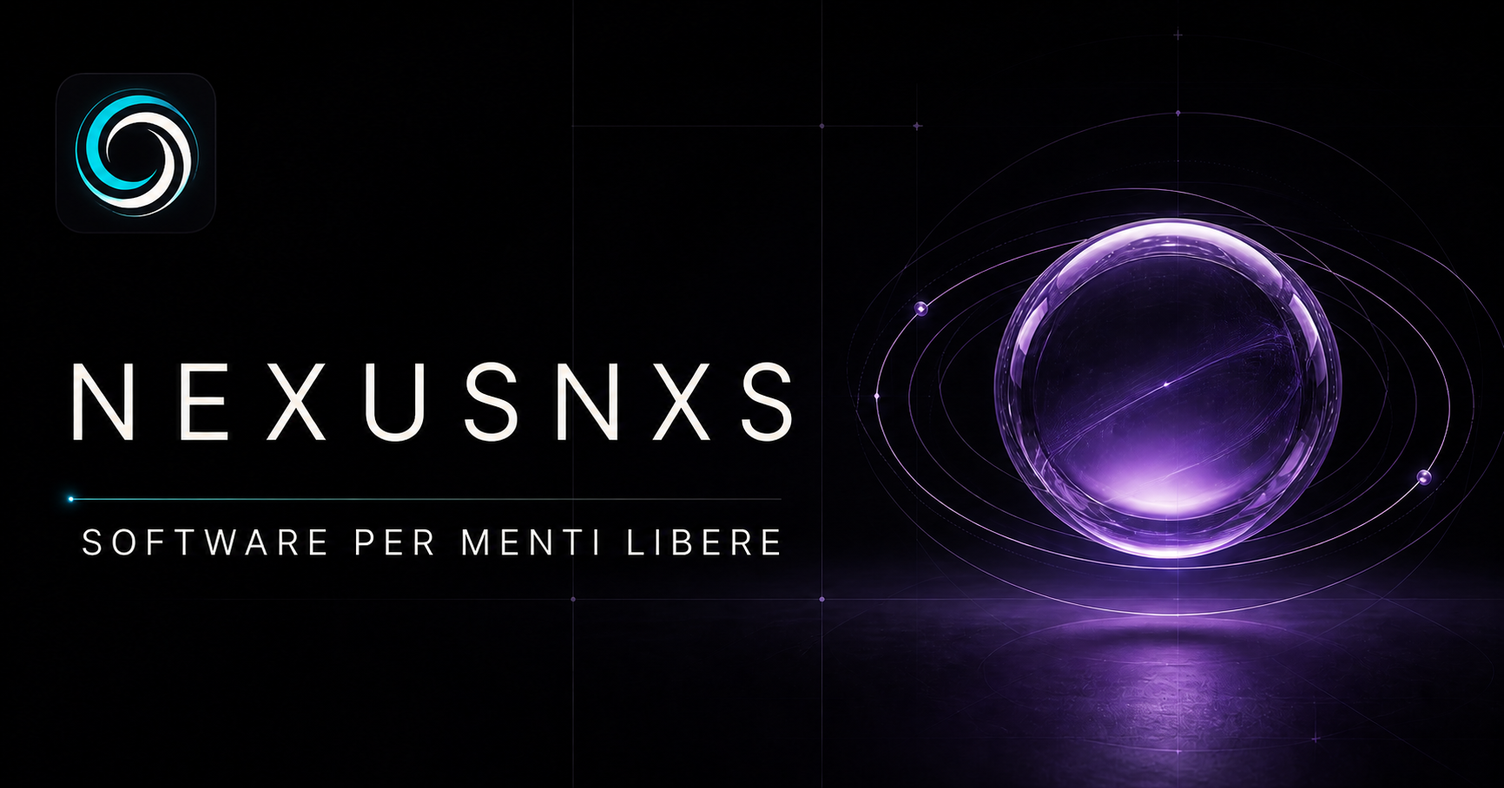
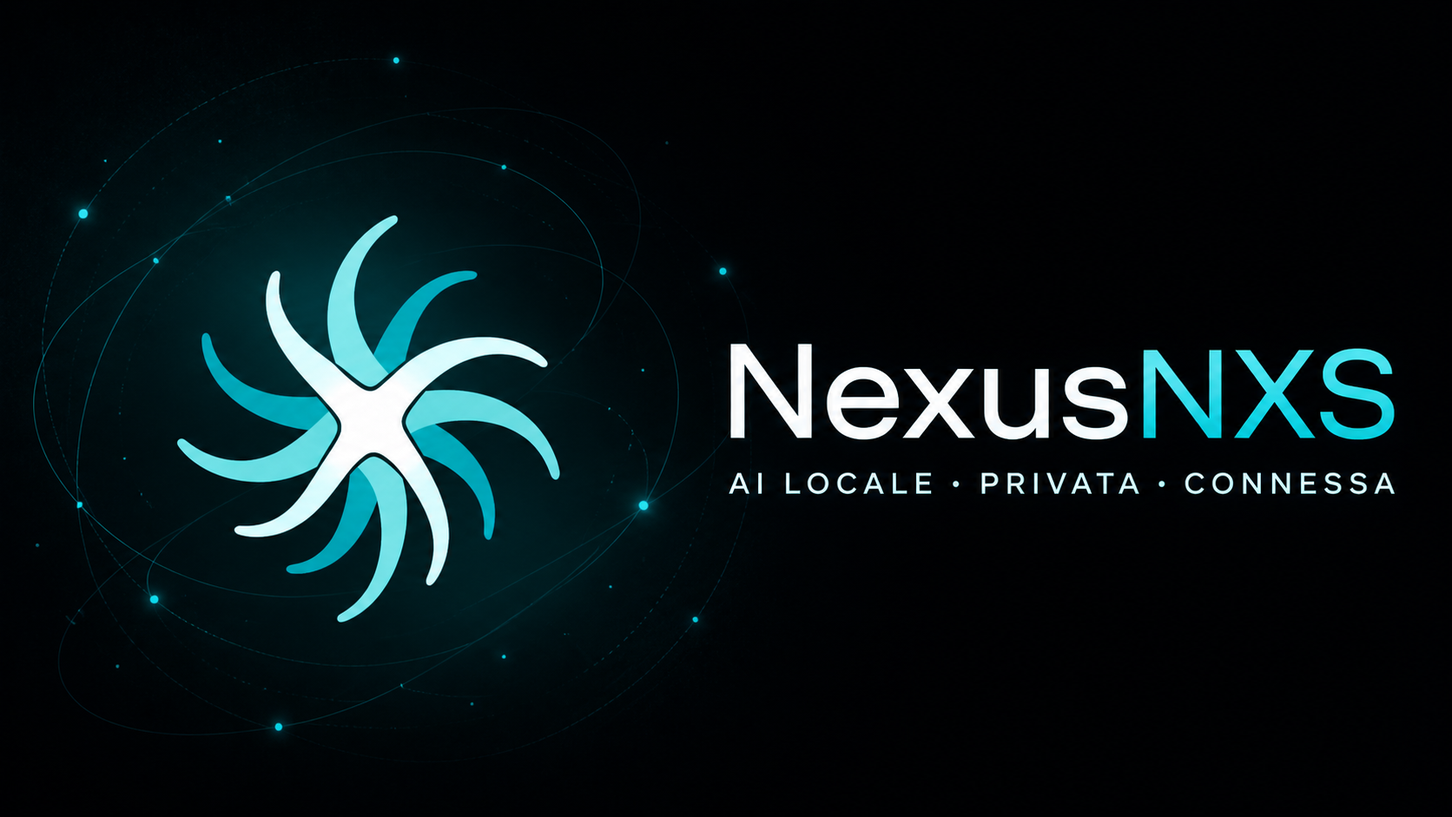
Align site with NexusNXS app design system

diff --git a/app/globals.css b/app/globals.css
@@ -69,8 +69,7 @@ body{min-width:0}.menu-open{overflow:hidden}main{overflow:clip}.site-header{posi
 
 /* NexusNXS professional system */
 @font-face{font-family:"Nexus Inter";src:url("/fonts/inter-latin.woff2") format("woff2");font-style:normal;font-weight:100 900;font-display:swap}
-@font-face{font-family:"Nexus Editorial";src:url("/fonts/cormorant-garamond-latin.woff2") format("woff2");font-style:normal;font-weight:400 700;font-display:swap}
-:root{--font-inter:"Nexus Inter",Inter,system-ui,sans-serif;--font-cormorant:"Nexus Editorial",Georgia,serif;--content-max:1240px;--page-pad:clamp(22px,5vw,72px);--surface:#0d0d13;--surface-2:#12121a;--soft-line:rgba(255,255,255,.105);--text:#f5f3f8;--subtle:#b8b4c1;--brand:#8c78ff;--brand-2:#68d9dd;--success:#71e7ad;--warning:#f1c979}
+:root{--font-inter:"Nexus Inter",Inter,system-ui,sans-serif;--font-cormorant:var(--font-inter);--content-max:1240px;--page-pad:clamp(22px,5vw,72px);--surface:#0d0d13;--surface-2:#12121a;--soft-line:rgba(255,255,255,.105);--text:#f5f3f8;--subtle:#b8b4c1;--brand:#8c78ff;--brand-2:#68d9dd;--success:#71e7ad;--warning:#f1c979}
 html{scroll-padding-top:88px}
 body{font-family:var(--font-inter),Inter,system-ui,-apple-system,"Segoe UI",sans-serif;background:#07070b;color:var(--text);text-rendering:optimizeLegibility;-webkit-font-smoothing:antialiased}
 h1,h2,h3,p{overflow-wrap:break-word}
@@ -113,4 +112,33 @@ h1 em,h2 em,.manifesto-text{font-family:var(--font-cormorant),Georgia,serif}
 @media(max-width:820px){.security-summary{grid-template-columns:1fr;margin-top:20px}.security-summary>div{border-right:0;border-bottom:1px solid var(--soft-line)}.security-policies,.release-notes,.uptime-panel{grid-template-columns:1fr;gap:35px}.service-list>div{grid-template-columns:30px 1fr auto;gap:8px 14px}.legal-layout{grid-template-columns:1fr;padding-top:60px}.legal-layout aside{position:static;grid-template-columns:1fr 1fr}.release-list article{padding:28px 22px}}
 @media(max-width:560px){.release-list article{grid-template-columns:54px 1fr;gap:18px}.release-list dl{grid-template-columns:1fr}.release-list button,.release-list small,.release-requirements{grid-column:1/-1}.release-title{grid-column:2}.release-icon{width:52px;height:52px}.release-policy{font-size:12px}.verify-guide{border-radius:0}.release-notes,.uptime-panel{width:calc(100% - 2 * var(--page-pad));padding:32px 24px}.security-policies{grid-template-columns:1fr}.security-summary{width:calc(100% - 2 * var(--page-pad))}.service-list>div{grid-template-columns:28px 1fr}.service-list>div>b{grid-column:2}.legal-hero{padding-top:140px}.legal-layout aside{grid-template-columns:1fr}.legal-layout article{gap:55px}}
 @media(prefers-reduced-motion:reduce){html{scroll-behavior:auto}*,*::before,*::after{animation-duration:.01ms!important;animation-iteration-count:1!important;transition-duration:.01ms!important}.reveal{opacity:1;transform:none}.aurora i:nth-child(3){animation:none}}
+
+/* NexusNXS app-native theme — source: desktop and Android design systems */
+:root{--ink:#020405;--paper:#020405;--muted:rgba(176,210,214,.42);--line:rgba(125,224,228,.11);--violet:#52eef0;--surface:#091113;--surface-2:#0d181a;--soft-line:rgba(125,224,228,.11);--text:#e9fdff;--subtle:rgba(201,238,241,.64);--brand:#52eef0;--brand-2:#27cfd2;--success:#58e8bd;--warning:#bd9f4f;--error:#c95d57}
+body{background:var(--ink);color:var(--text)}
+h1 em,h2 em,.manifesto-text,.section-heading h2,.security h2,footer h2,.app-card h3,.mini-main p,.architecture-band h2,.one-nexus h2,.data-flow h2,.feature-grid h3,.control-grid h2,.release-list h2,.verify-guide h2,.report-band h2,.status-note h2,.release-notes h2,.uptime-panel h2,.legal-hero h1{font-family:var(--font-inter),Inter,system-ui,sans-serif;font-style:normal}
+h1 em,h2 em{color:var(--cyan,#52eef0)}
+::selection{background:#52eef0;color:#020405}
+:where(a,button):focus-visible{outline-color:#72f4ff}
+.site-header{background:rgba(2,4,5,.82);border-color:rgba(125,224,228,.09)}
+.brand-icon{box-shadow:0 0 0 1px rgba(82,238,240,.1),0 8px 28px rgba(39,207,210,.12)}
+.chrome-nav a{color:rgba(201,238,241,.62)}.chrome-nav a:hover,.chrome-nav a[aria-current="page"]{color:#e9fdff}.chrome-nav a[aria-current="page"]:not(.chrome-download)::after{background:linear-gradient(90deg,#52eef0,transparent)}
+.chrome-download{border-color:rgba(82,238,240,.24);background:rgba(82,238,240,.045)}.network-pill{border-color:rgba(82,238,240,.13);background:rgba(6,18,20,.76);color:rgba(201,238,241,.76)}.network-pill i,.status i{background:#58e8bd;box-shadow:0 0 .7rem rgba(88,232,189,.32)}
+.primary-button{border-color:#52eef0;background:#52eef0;color:#020405;box-shadow:0 0 0 1px rgba(82,238,240,.12),0 14px 44px rgba(39,207,210,.13);font-weight:700}.primary-button:hover{background:#e9fdff;color:#020405}.text-link{border-color:rgba(125,224,228,.22)}
+.hero{background:#020405}.aurora{background:radial-gradient(ellipse at 72% 48%,rgba(20,90,94,.14),transparent 34%),radial-gradient(circle at 20% 20%,rgba(39,207,210,.025),transparent 24%),#020405}.aurora:after{opacity:.16;background-image:linear-gradient(rgba(125,224,228,.065) 1px,transparent 1px),linear-gradient(90deg,rgba(125,224,228,.065) 1px,transparent 1px);mask-image:linear-gradient(90deg,transparent,#000 62%,transparent)}.aurora i{border-color:rgba(82,238,240,.14);box-shadow:inset 0 0 60px rgba(39,207,210,.035),0 0 80px rgba(39,207,210,.025)}.aurora i:nth-child(3){background:radial-gradient(circle at 42% 38%,#e9fdff 0 2%,#72f4ff 4%,#27cfd2 18%,#0a3b3e 42%,#020405 72%);box-shadow:0 0 35px rgba(82,238,240,.32),0 0 110px rgba(39,207,210,.13)}
+.eyebrow,.section-label{color:rgba(168,200,202,.7)}.hero-copy,.section-heading>p,.security-copy>p:not(.section-label),.one-nexus-copy p:not(.section-label),.product-copy>p,.trust-hero>div>p,.download-hero>p{color:rgba(201,238,241,.64)}.trust-line{color:rgba(168,200,202,.46)}.trust-line svg{color:#52eef0}
+.manifesto{background:radial-gradient(circle at 78% 30%,rgba(39,207,210,.07),transparent 36%),#060a0c;color:#e9fdff;border-block:1px solid rgba(125,224,228,.08)}.manifesto .section-label{color:rgba(168,200,202,.55)}.manifesto-text strong{color:#52eef0}
+.apps-section{background:#020405}.app-grid{background:rgba(125,224,228,.09);border-color:rgba(125,224,228,.09)}.app-card{background:linear-gradient(145deg,rgba(9,17,19,.98),rgba(3,9,10,.98))}.app-card:hover{background:linear-gradient(145deg,#0d181a,#061012)}.app-orb span,.cyan .app-orb span,.teal .app-orb span{position:relative;border-radius:50%;background:radial-gradient(circle at 42% 38%,#e9fdff 0 2%,#72f4ff 4%,#27cfd2 18%,#0a3b3e 42%,#020405 72%);box-shadow:0 0 25px rgba(82,238,240,.34),0 0 0 34px rgba(82,238,240,.025),0 0 0 68px rgba(82,238,240,.012)}.teal .app-orb span{background:radial-gradient(circle at 42% 38%,#e9fdff 0 2%,#58e8bd 5%,#27cfd2 22%,#093537 46%,#020405 74%)}.app-orb span svg{color:#020405;filter:drop-shadow(0 0 8px rgba(233,253,255,.65))}.card-top,.platform{color:rgba(176,210,214,.46)!important}.status{color:rgba(168,200,202,.62)}.app-card>a{border-color:rgba(125,224,228,.12);color:rgba(201,238,241,.82)}
+.presence-system{width:min(calc(100% - 2 * var(--page-pad)),var(--content-max));margin:0 auto 110px;padding:clamp(44px,7vw,90px);display:grid;grid-template-columns:.85fr 1.15fr;gap:clamp(42px,7vw,100px);align-items:center;border:1px solid rgba(125,224,228,.1);border-radius:1.2rem;background:radial-gradient(ellipse at 80% 50%,rgba(20,90,94,.09),transparent 48%),#060a0c}.presence-copy h2{font-size:clamp(46px,5.8vw,78px);line-height:.94;letter-spacing:-.05em;margin:22px 0}.presence-copy>p:last-child{max-width:500px;color:rgba(201,238,241,.6);line-height:1.75}.presence-grid{display:grid;gap:10px}.presence-grid article{display:grid;grid-template-columns:46px 1fr auto;gap:14px;align-items:center;min-height:76px;padding:12px 16px;border:1px solid rgba(125,224,228,.08);border-radius:.75rem;background:rgba(9,17,19,.72)}.presence-grid article>span{width:42px;height:42px;display:grid;place-items:center;border-radius:50%;background:rgba(82,238,240,.055);color:#52eef0}.presence-grid article div{display:grid;gap:4px}.presence-grid strong{font-size:14px}.presence-grid small{color:rgba(176,210,214,.46)}.presence-grid article>i{width:7px;height:7px;border-radius:50%;background:#52eef0;box-shadow:0 0 .75rem rgba(82,238,240,.4)}.presence-grid article[data-state="listening"]>span,.presence-grid article[data-state="listening"]>i{color:#58e8bd;background-color:#58e8bd}.presence-grid article[data-state="thinking"]>span{color:#7fbdff}.presence-grid article[data-state="thinking"]>i{background:#7fbdff;box-shadow:0 0 .75rem rgba(127,189,255,.4)}.presence-grid article[data-state="responding"]>span{color:#b2efff}.presence-grid article[data-state="responding"]>i{background:#b2efff}.presence-grid article[data-state="executing"]>span{color:#bd9f4f}.presence-grid article[data-state="executing"]>i{background:#bd9f4f;box-shadow:0 0 .75rem rgba(189,159,79,.38)}.presence-grid article[data-state="listening"]>span{background:rgba(88,232,189,.055)}
+.one-nexus{background:radial-gradient(ellipse at 70% 48%,rgba(20,90,94,.11),transparent 48%),#060a0c;border-color:rgba(125,224,228,.1);border-radius:1.2rem}.orbit-line{border-color:rgba(82,238,240,.12)}.orbit-line.two{border-color:rgba(88,232,189,.12)}
+.product-mockup .mockup-glow{background:rgba(39,207,210,.12)}.device-frame{border-color:rgba(125,224,228,.16);background:linear-gradient(145deg,#0d181a,#020405);box-shadow:0 2rem 7rem rgba(0,0,0,.58),0 0 0 8px rgba(82,238,240,.018)}.device-bar{color:rgba(176,210,214,.4)}.device-bar i{background:rgba(125,224,228,.24)}.device-content{background:radial-gradient(ellipse at 65% 38%,rgba(20,90,94,.09),transparent 46%),#020405}.mini-sidebar{border-color:rgba(125,224,228,.09)}.mini-sidebar b{background:#52eef0;color:#020405}.mini-sidebar i{border-color:rgba(125,224,228,.2)}.mini-main{position:relative;padding:18px}.mini-main small{margin-top:13px;color:rgba(82,238,240,.5);font:6px ui-monospace,monospace;letter-spacing:.14em}.mini-main p{font-size:20px;font-weight:600;margin:10px 0 4px}.mini-main>span{color:rgba(201,238,241,.46)}.mini-orb{position:relative;width:82px;height:82px;border:1px solid rgba(82,238,240,.3);border-radius:50%;background:radial-gradient(circle,#52eef0 0 3%,#0d4144 5% 12%,transparent 13%);box-shadow:0 0 2rem rgba(82,238,240,.13)}.mini-orb>i{position:absolute;inset:13%;border:1px solid rgba(82,238,240,.6);border-radius:50%;clip-path:polygon(0 0,65% 0,65% 100%,0 100%)}.mini-orb>i:nth-child(2){inset:26%;transform:rotate(120deg);opacity:.7}.mini-orb>i:nth-child(3){inset:-18%;border-color:rgba(82,238,240,.1);clip-path:none}.mini-orb>span{position:absolute;inset:45%;border-radius:50%;background:#e9fdff;box-shadow:0 0 .55rem #52eef0}.mini-input{width:min(82%,260px);height:34px;display:flex;align-items:center;justify-content:space-between;padding:0 8px 0 12px;border-color:rgba(125,224,228,.16);border-radius:.65rem;background:rgba(9,17,19,.72)}.mini-input span{font-size:7px;color:rgba(176,210,214,.38)}.mini-input i{width:18px;height:18px;border-radius:50%;background:#52eef0}.android .mini-main{padding-inline:12px}.android .mini-main p{font-size:16px}.android .mini-input{width:92%}
+.security{background:linear-gradient(135deg,#0d181a,#061012 60%,#020405);border:1px solid rgba(125,224,228,.1);border-radius:1.2rem}.security-panel{background:#020405;border:1px solid rgba(125,224,228,.09)}.security-panel>p span{color:#58e8bd}.shield{background:radial-gradient(circle at 50% 32%,rgba(82,238,240,.34),rgba(9,44,46,.96) 55%,#020405);filter:drop-shadow(0 0 35px rgba(82,238,240,.18))}.security-copy .light{background:#52eef0;color:#020405;border-color:#52eef0}.security-panel dl div{border-color:rgba(125,224,228,.1)}.security-panel dt{color:rgba(176,210,214,.46)}.security-panel dd{color:rgba(233,253,255,.76)}
+.product-hero,.trust-hero,.download-hero,.status-hero,.legal-hero{background:radial-gradient(ellipse at 80% 30%,rgba(20,90,94,.12),transparent 34%),#020405}.platform-chip{color:rgba(82,238,240,.55)}.product-facts>div{border-color:rgba(125,224,228,.1);background:#060a0c}.feature-grid article,.control-grid article{border-color:rgba(125,224,228,.09);background:#060a0c}.feature-grid svg,.control-grid svg{color:#52eef0}.feature-grid p,.control-grid p{color:rgba(201,238,241,.58)}.architecture-band{background:radial-gradient(ellipse at 20% 30%,rgba(39,207,210,.12),transparent 42%),#091113;border:1px solid rgba(125,224,228,.11);border-radius:1.2rem}.architecture-list p{border-color:rgba(125,224,228,.12)}.architecture-list svg{color:#52eef0}
+.trust-seal{background:radial-gradient(circle at 50% 30%,rgba(82,238,240,.38),#0d4a4d 45%,#020405 78%);filter:drop-shadow(0 0 44px rgba(39,207,210,.2))}.security-summary,.security-policies article{background:#091113;border-color:rgba(125,224,228,.1)}.data-flow{background:#060a0c;color:#e9fdff;border-block:1px solid rgba(125,224,228,.08)}.data-flow .section-label{color:rgba(168,200,202,.55)}.flow-line i{background:linear-gradient(90deg,#27cfd2,#52eef0)}.data-flow li{border-color:rgba(125,224,228,.1)}.data-flow li svg{color:#52eef0}.security-policies article>svg,.report-band>svg,.status-note>svg,.release-notes>div>svg,.uptime-panel>div:first-child>svg{color:#52eef0}.report-band,.status-note{border-color:rgba(125,224,228,.1);background:#060a0c}
+.release-policy{border-color:rgba(189,159,79,.25);background:rgba(189,159,79,.05)}.release-list article{border-color:rgba(125,224,228,.1);background:linear-gradient(145deg,#091113,#03090a)}.release-icon{border-color:rgba(82,238,240,.18);color:#52eef0;background:rgba(82,238,240,.025)}.release-list dl>div{border-color:rgba(125,224,228,.08)}.verify-guide{background:#091113;color:#e9fdff;border:1px solid rgba(125,224,228,.11)}.verify-guide p{color:rgba(201,238,241,.6)}.verify-guide li{border-color:rgba(125,224,228,.1)}.verify-guide li span{color:#52eef0}.hash-preview{background:#060a0c;color:rgba(201,238,241,.62)}.release-notes,.uptime-panel{background:radial-gradient(ellipse at 18% 25%,rgba(39,207,210,.08),transparent 44%),#060a0c;border-color:rgba(125,224,228,.1)}
+.status-banner{border-color:rgba(125,224,228,.12);background:#091113}.service-list>div{border-color:rgba(125,224,228,.1)}.service-list svg{color:#52eef0}.uptime-empty{border-color:rgba(125,224,228,.18)}
+.legal-layout aside a{border-color:rgba(125,224,228,.09);color:rgba(176,210,214,.55)}.legal-layout article section>svg{color:#52eef0}.legal-layout p{color:rgba(201,238,241,.62)}.legal-layout p a{color:#9ff8fa;border-color:rgba(82,238,240,.3)}
+.premium-footer{background:radial-gradient(ellipse at 15% 0,rgba(20,90,94,.09),transparent 36%),#020405;border-color:rgba(125,224,228,.09)}.footer-links a{color:rgba(201,238,241,.62)}.footer-bottom{color:rgba(176,210,214,.4);border-color:rgba(125,224,228,.09)}
+@media(max-width:820px){.chrome-nav{background:rgba(2,4,5,.98)}.chrome-nav a{border-color:rgba(125,224,228,.1)}.chrome-download{border-color:rgba(82,238,240,.28)!important;background:rgba(82,238,240,.08)}.presence-system{grid-template-columns:1fr}.presence-grid{grid-template-columns:1fr 1fr}}
+@media(max-width:560px){.presence-system{width:100%;border-inline:0;border-radius:0;padding:64px var(--page-pad)}.presence-grid{grid-template-columns:1fr}.security,.one-nexus{border-radius:0}.architecture-band{border-radius:.9rem}}
 @media(prefers-reduced-motion:reduce){.chrome-nav{transition:none}.primary-button:hover{transform:none}}

diff --git a/app/page.tsx b/app/page.tsx
@@ -1,13 +1,20 @@
 "use client";
 
 import { useEffect } from "react";
-import { ArrowUpRight, Blocks, Fingerprint, KeyRound, LockKeyhole, Orbit, ShieldCheck, Sparkles, Workflow } from "lucide-react";
+import { ArrowUpRight, Blocks, BrainCircuit, Fingerprint, KeyRound, LockKeyhole, MessageCircle, Mic2, Orbit, ShieldCheck, Sparkles, Workflow, Zap } from "lucide-react";
 import { ProductMockup, SiteFooter, SiteHeader } from "./components/SiteChrome";
 import { StructuredData } from "./components/StructuredData";
 
 const apps = [
-  { index: "01", name: "NexusNXS per PC", platform: "Windows · AI locale", description: "Un ambiente intelligente e privato che porta modelli, strumenti e automazioni dentro il tuo computer.", accent: "violet", href: "/desktop", Icon: Workflow },
-  { index: "02", name: "NexusNXS per Android", platform: "Android · Continuità", description: "La tua esperienza NexusNXS sempre con te, con conversazioni sincronizzate e controllo trasparente.", accent: "cyan", href: "/android", Icon: KeyRound },
+  { index: "01", name: "NexusNXS per PC", platform: "Windows · AI locale", description: "Il centro intelligente della tua istanza: modelli locali, voce, progetti e azioni approvate sul computer.", accent: "cyan", href: "/desktop", Icon: Workflow },
+  { index: "02", name: "NexusNXS per Android", platform: "Android · Continuità cifrata", description: "La stessa presenza NexusNXS in movimento, con sessioni protette, pairing revocabile e continuità reale.", accent: "teal", href: "/android", Icon: KeyRound },
+];
+
+const presenceStates = [
+  { Icon: Mic2, label: "Ascolto", detail: "Input vocale attivo", state: "listening" },
+  { Icon: BrainCircuit, label: "Pensiero", detail: "Elaborazione visibile", state: "thinking" },
+  { Icon: MessageCircle, label: "Risposta", detail: "Output leggibile", state: "responding" },
+  { Icon: Zap, label: "Azione", detail: "Consenso richiesto", state: "executing" },
 ];
 
 export default function Home() {
@@ -22,24 +29,28 @@ export default function Home() {
       <SiteHeader />
       <section className="hero" id="top">
         <div className="aurora" aria-hidden="true"><i /><i /><i /></div>
-        <p className="eyebrow"><Sparkles size={13} strokeWidth={1.5} /> Software indipendente. Idee senza confini.</p>
-        <h1>Strumenti digitali<br />per menti <em>libere.</em></h1>
-        <p className="hero-copy">App Android e desktop progettate per essere potenti, bellissime e rispettose. La tecnologia torna dalla tua parte.</p>
-        <div className="hero-actions"><a className="primary-button" href="#apps">Scopri le app <ArrowUpRight size={15} /></a><a className="text-link" href="/security">Esplora il Trust Center <span>→</span></a></div>
-        <div className="trust-line"><span><Fingerprint size={13} /> PRIVACY BY DESIGN</span><span><ShieldCheck size={13} /> FIRMA VERIFICABILE</span><span><Blocks size={13} /> NESSUN TRACKING INVASIVO</span></div>
+        <p className="eyebrow"><Sparkles size={13} strokeWidth={1.5} /> NEXUSNXS · AI LOCALE, PRIVATA, CONNESSA</p>
+        <h1>La tua intelligenza.<br /><em>Un solo NexusNXS.</em></h1>
+        <p className="hero-copy">Un’unica istanza intelligente tra PC e Android. Modelli locali, voce, progetti e continuità cifrata, con i tuoi dati sotto il tuo controllo.</p>
+        <div className="hero-actions"><a className="primary-button" href="#apps">Esplora NexusNXS <ArrowUpRight size={15} /></a><a className="text-link" href="/security">Apri il Trust Center <span>→</span></a></div>
+        <div className="trust-line"><span><Fingerprint size={13} /> AI LOCALE</span><span><ShieldCheck size={13} /> ACCESSI REVOCABILI</span><span><Blocks size={13} /> CONTINUITÀ CIFRATA</span></div>
         <div className="scroll-cue" aria-hidden="true">SCORRI <i /></div>
       </section>
-      <section className="manifesto reveal" id="vision"><p className="section-label">/ 01 — La visione</p><p className="manifesto-text">Non costruiamo software che reclama la tua attenzione. Creiamo <strong>strumenti silenziosi</strong> che amplificano ciò che sai fare.</p></section>
+      <section className="manifesto reveal" id="vision"><p className="section-label">/ 01 — LA PRESENZA</p><p className="manifesto-text">NexusNXS non è un insieme di app separate. È <strong>una sola intelligenza privata</strong> che continua tra i tuoi dispositivi.</p></section>
       <section className="apps-section" id="apps">
         <div className="section-heading reveal"><div><p className="section-label">/ 02 — Le applicazioni</p><h2>Un ecosistema.<br />Il tuo ritmo.</h2></div><p>Ogni prodotto nasce per risolvere bene un problema reale. Insieme, diventano un ambiente senza attriti.</p></div>
         <div className="app-grid">{apps.map((app) => <article className={`app-card reveal ${app.accent}`} key={app.name}><div className="card-top"><span>{app.index}</span><span className="status"><i /> IN SVILUPPO</span></div><div className="app-orb" aria-hidden="true"><span><app.Icon size={46} strokeWidth={1.15} /></span></div><p className="platform">{app.platform}</p><h3>{app.name}</h3><p>{app.description}</p><a href={app.href} aria-label={`Scopri di più su ${app.name}`}>SCOPRI DI PIÙ <ArrowUpRight size={14} /></a></article>)}</div>
       </section>
+      <section className="presence-system reveal" aria-labelledby="presence-title">
+        <div className="presence-copy"><p className="section-label">/ 03 — STATI COMPRENSIBILI</p><h2 id="presence-title">Sai sempre<br /><em>cosa sta facendo.</em></h2><p>Colori e movimento hanno un significato operativo, lo stesso sulle app e sul sito. Nessun indicatore puramente decorativo.</p></div>
+        <div className="presence-grid">{presenceStates.map(({Icon,label,detail,state})=><article key={state} data-state={state}><span><Icon strokeWidth={1.4}/></span><div><strong>{label}</strong><small>{detail}</small></div><i aria-hidden="true"/></article>)}</div>
+      </section>
       <section className="one-nexus reveal">
-        <div className="one-nexus-copy"><p className="section-label">/ 03 — Ecosistema NexusNXS</p><h2>Due applicazioni.<br /><em>Una sola esperienza.</em></h2><p>NexusNXS per PC e Android lavorano insieme sulla stessa infrastruttura. La continuità è reale, senza trasformare i tuoi dati in un prodotto.</p><a className="text-link" href="/status">VEDI LO STATO DELLA RETE <span>→</span></a></div>
+        <div className="one-nexus-copy"><p className="section-label">/ 04 — ECOSISTEMA NEXUSNXS</p><h2>Due applicazioni.<br /><em>Una sola istanza.</em></h2><p>NexusNXS per PC e Android condividono sessione, identità e infrastruttura senza trasformare i tuoi dati in un prodotto.</p><a className="text-link" href="/status">VEDI LO STATO DELLA RETE <span>→</span></a></div>
         <div className="nexus-stage"><ProductMockup type="desktop"/><ProductMockup type="android"/><span className="orbit-line one"/><span className="orbit-line two"/></div>
       </section>
       <section className="security reveal" id="security">
-        <div className="security-copy"><p className="section-label">/ 04 — Sicurezza radicale</p><h2>La fiducia non si chiede.<br /><em>Si dimostra.</em></h2><p>Riduciamo i dati raccolti, proteggiamo ogni distribuzione e rendiamo verificabile l’integrità del software. La sicurezza è un processo continuo, non un badge.</p><a className="primary-button light" href="/security">Apri il Trust Center <span>→</span></a></div>
+        <div className="security-copy"><p className="section-label">/ 05 — SICUREZZA NEXUSNXS</p><h2>La fiducia non si chiede.<br /><em>Si dimostra.</em></h2><p>Riduciamo i dati, separiamo il servizio pubblico dall’amministrazione privata e blocchiamo i download finché non sono verificabili.</p><a className="primary-button light" href="/security">Apri il Trust Center <span>→</span></a></div>
         <div className="security-panel" id="principles"><div className="scanline" /><p>SECURITY POSTURE <span>CONTROLLI DOCUMENTATI</span></p><div className="shield" aria-hidden="true"><ShieldCheck size={72} strokeWidth={1} /></div><dl><div><dt><LockKeyhole size={14} /> Distribuzione</dt><dd>Firma richiesta</dd></div><div><dt><Fingerprint size={14} /> Dati</dt><dd>Cifratura in transito</dd></div><div><dt><Orbit size={14} /> Telemetria</dt><dd>Minima &amp; trasparente</dd></div><div><dt><Blocks size={14} /> Aggiornamenti</dt><dd>Integrità verificabile</dd></div></dl></div>
       </section>
       <SiteFooter />

diff --git a/app/layout.tsx b/app/layout.tsx
@@ -1,6 +1,8 @@
-import type { Metadata } from "next";
+import type { Metadata, Viewport } from "next";
 import { headers } from "next/headers";
 import "./globals.css";
+
+export const viewport: Viewport = { themeColor: "#020405", colorScheme: "dark" };
 
 export async function generateMetadata(): Promise<Metadata> {
   const requestHeaders = await headers();
@@ -8,7 +10,7 @@ export async function generateMetadata(): Promise<Metadata> {
   const protocol = requestHeaders.get("x-forwarded-proto") ?? (host.startsWith("localhost") ? "http" : "https");
   const origin = `${protocol}://${host}`;
   const title = "NexusNXS — Software per menti libere";
-  const description = "App Android e desktop potenti, eleganti e progettate intorno alla tua privacy.";
+  const description = "AI locale per PC e Android, con una sola istanza privata, accessi revocabili e continuità cifrata.";
   return {
     metadataBase: new URL("https://nexusnxs.com"),
     title,
@@ -24,7 +26,7 @@ export async function generateMetadata(): Promise<Metadata> {
       shortcut: "/nexus-icon.png?v=nexusnxs-2",
       apple: [{ url: "/nexus-icon.png?v=nexusnxs-2", sizes: "1024x1024", type: "image/png" }],
     },
-    openGraph: { title, description, type: "website", url: origin, siteName: "NexusNXS", locale: "it_IT", images: [{ url: `${origin}/og.png`, width: 1732, height: 908, alt: "NexusNXS — Software per menti libere" }] },
+    openGraph: { title, description, type: "website", url: origin, siteName: "NexusNXS", locale: "it_IT", images: [{ url: `${origin}/og.png`, width: 1672, height: 941, alt: "NexusNXS — AI locale, privata e connessa" }] },
     twitter: { card: "summary_large_image", title, description, images: [`${origin}/og.png`] },
   };
 }

diff --git a/app/components/SiteChrome.tsx b/app/components/SiteChrome.tsx
@@ -63,5 +63,5 @@ export function SiteFooter() {
 }
 
 export function ProductMockup({ type }: { type: "desktop" | "android" }) {
-  return <div className={`product-mockup ${type}`} aria-hidden="true"><div className="mockup-glow" /><div className="device-frame"><div className="device-bar"><i /><i /><i /><span>NEXUSNXS / {type.toUpperCase()}</span></div><div className="device-content"><div className="mini-sidebar"><b>N</b><i /><i /><i /></div><div className="mini-main"><div className="mini-orb" /><p>Come posso aiutarti?</p><span>Il tuo spazio intelligente, privato e connesso.</span><div className="mini-input" /></div></div></div></div>;
+  return <div className={`product-mockup ${type}`} aria-hidden="true"><div className="mockup-glow" /><div className="device-frame"><div className="device-bar"><i /><i /><i /><span>NEXUSNXS / {type.toUpperCase()}</span></div><div className="device-content"><div className="mini-sidebar"><b>N</b><i /><i /><i /></div><div className="mini-main"><div className="mini-orb"><i/><i/><i/><span/></div><small>NEXUSNXS CORE · PRONTO</small><p>Come posso aiutarti?</p><span>AI locale, privata e connessa alla tua istanza.</span><div className="mini-input"><span>Chiedi a NexusNXS</span><i/></div></div></div></div></div>;
 }

diff --git a/app/manifest.ts b/app/manifest.ts
@@ -1,5 +1,5 @@
 import type { MetadataRoute } from "next";
 
 export default function manifest(): MetadataRoute.Manifest {
-  return { name: "NexusNXS", short_name: "NexusNXS", description: "Software privato e connesso per PC e Android.", start_url: "/", display: "standalone", background_color: "#07070b", theme_color: "#7561e8", lang: "it", categories: ["productivity", "utilities"], icons: [{ src: "/nexus-icon.png", sizes: "1024x1024", type: "image/png", purpose: "any maskable" }] };
+  return { name: "NexusNXS", short_name: "NexusNXS", description: "AI locale, privata e connessa per PC e Android.", start_url: "/", display: "standalone", background_color: "#020405", theme_color: "#52EEF0", lang: "it", categories: ["productivity", "utilities"], icons: [{ src: "/nexus-icon.png", sizes: "1024x1024", type: "image/png", purpose: "any maskable" }] };
 }
